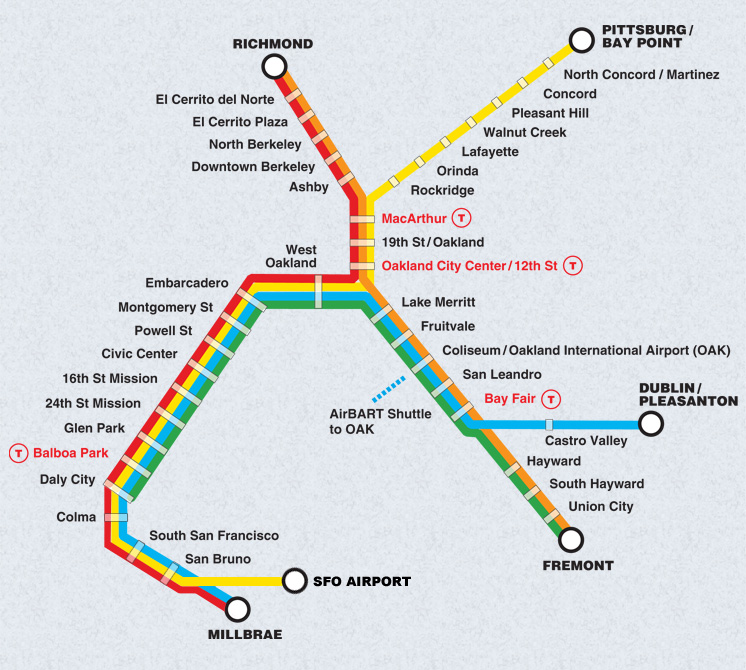
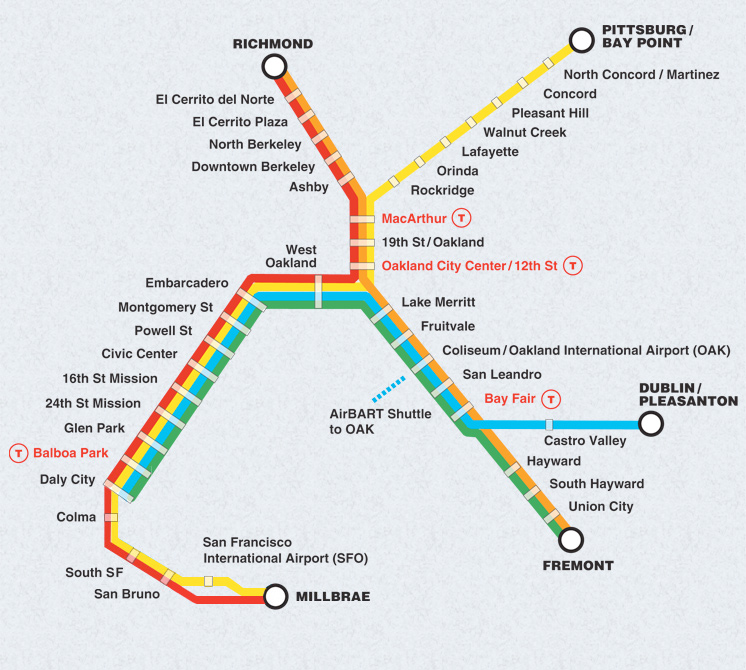
updated maps

diff --git a/BART.wdgt/Maps/Euro/info.js b/BART.wdgt/Maps/Euro/info.js
@@ -35,24 +35,24 @@ map.addStation("Embarcadero",228,302)
 map.addStation("Montgomery",210,317)
 map.addStation("Powell",198,333)
 map.addStation("Civic Center",183,351)
-map.addStation("16th St",167,373)
-map.addStation("24th St",156,391)
-map.addStation("Glen Park",139,416)
-map.addStation("Balboa Park",123,440)
-map.addStation("Daly City",122,465)
-map.addStation("Colma",130,496)
-map.addStation("South SF",163,532)
-map.addStation("San Bruno",185,553)
-map.addStation("SFO",245,578)
-map.addStation("Millbrae",208,602)
-map.addStation("Lake Merritt",384,332)
-map.addStation("Fruitvale",406,354)
-map.addStation("Coliseum",427,375)
-map.addStation("San Leandro",462,409)
-map.addStation("Bay Fair",486,433)
-map.addStation("Castro Valley",539,448)
-map.addStation("Dublin",696,448)
-map.addStation("Hayward",514,484)
-map.addStation("South Hayward",535,543)
-map.addStation("Union City",588,597)
-map.addStation("Fremont",639,647)
+map.addStation("16th St",167,371)
+map.addStation("24th St",156,388)
+map.addStation("Glen Park",139,413)
+map.addStation("Balboa Park",123,437)
+map.addStation("Daly City",122,462)
+map.addStation("Colma",112,509)
+map.addStation("South SF",167,523)
+map.addStation("San Bruno",194,531)
+map.addStation("SFO",255,540)
+map.addStation("Millbrae",265,591)
+map.addStation("Lake Merritt",381,330)
+map.addStation("Fruitvale",402,352)
+map.addStation("Coliseum",424,372)
+map.addStation("San Leandro",458,406)
+map.addStation("Bay Fair",482,430)
+map.addStation("Castro Valley",535,446)
+map.addStation("Dublin",690,446)
+map.addStation("Hayward",511,481)
+map.addStation("South Hayward",531,539)
+map.addStation("Union City",583,592)
+map.addStation("Fremont",634,642)

diff --git a/BART.wdgt/Maps/Clean/info.js b/BART.wdgt/Maps/Clean/info.js
@@ -41,11 +41,11 @@ map.addStation("24th St",169,417)
 map.addStation("Glen Park",152,444)
 map.addStation("Balboa Park",136,467)
 map.addStation("Daly City",118,491)
-map.addStation("Colma",116,518)
-map.addStation("South SF",136,552)
-map.addStation("San Bruno",169,575)
-map.addStation("SFO",296,582)
-map.addStation("Millbrae",238,610)
+map.addStation("Colma",110,517)
+map.addStation("South SF",132,556)
+map.addStation("San Bruno",167,577)
+map.addStation("SFO",208,581)
+map.addStation("Millbrae",275,596)
 map.addStation("Lake Merritt",383,316)
 map.addStation("Fruitvale",402,341)
 map.addStation("Coliseum",423,366)

diff --git a/BART.wdgt/Maps/Classic/info.js b/BART.wdgt/Maps/Classic/info.js
@@ -41,10 +41,10 @@ map.addStation("24th St",161,385)
 map.addStation("Glen Park",134,413)
 map.addStation("Balboa Park",117,428)
 map.addStation("Daly City",98,469)
-map.addStation("Colma",102,496)
-map.addStation("South SF",157,531)
-map.addStation("San Bruno",180,539)
-map.addStation("SFO",231,548)
+map.addStation("Colma",97,496)
+map.addStation("South SF",156,531)
+map.addStation("San Bruno",177,539)
+map.addStation("SFO",221,549)
 map.addStation("Millbrae",228,586)
 map.addStation("Lake Merritt",328,320)
 map.addStation("Fruitvale",356,336)
